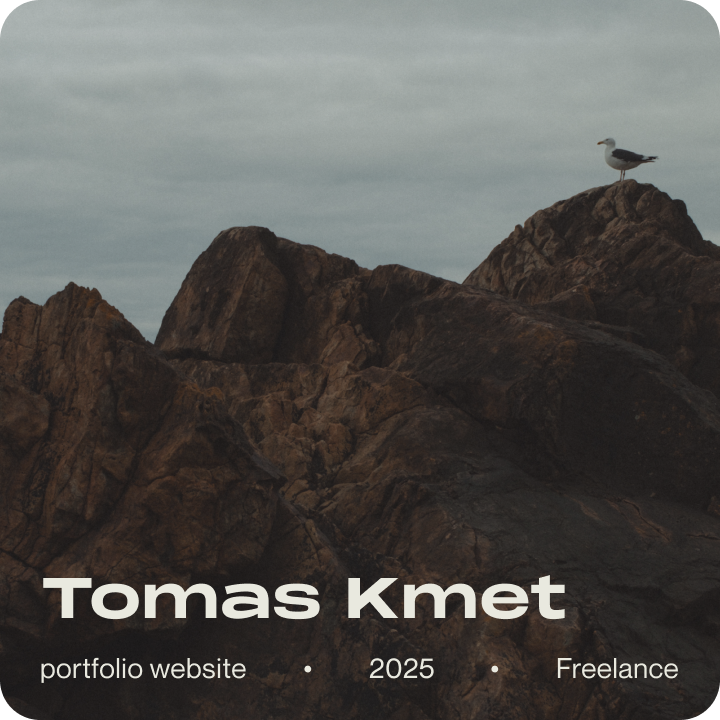
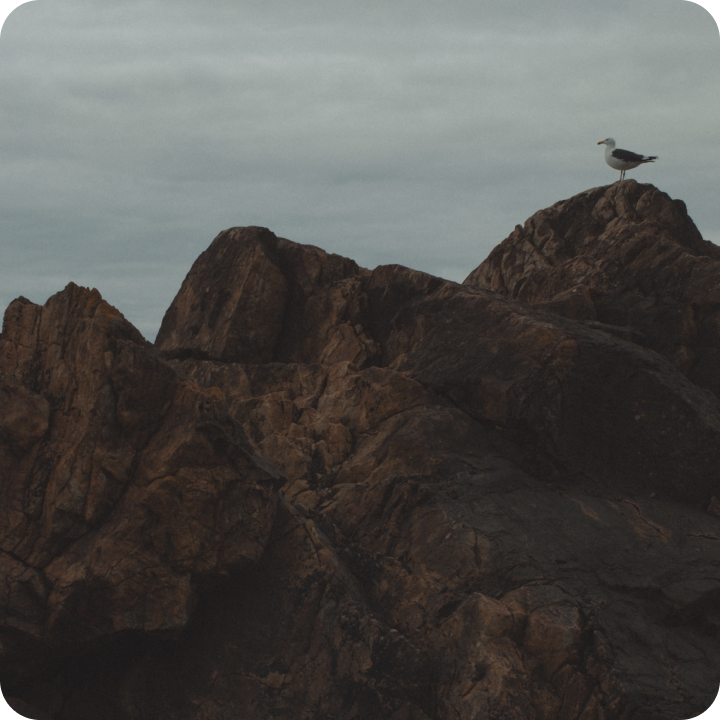
Copy adjust, mobile footer fix

diff --git a/src/jk_portfolio.js b/src/jk_portfolio.js
@@ -283,8 +283,10 @@ const activateNextSection = (_scrollPos) => {
 
 const footerSectionEl = document.getElementById('footerParallax');
 const footerAnimateIn = (_scrollPos) => {
-    let moveFooterCoef = -1 * (footerSection.top - _scrollPos - window.innerHeight) + 2; // +2 to avoid white line on the bottom
-    footerSectionEl.style.height = moveFooterCoef + 'px';
+    if (!getUserAgent.isMobile && window.innerWidth > 768) {
+        let moveFooterCoef = -1 * (footerSection.top - _scrollPos - window.innerHeight) + 2; // +2 to avoid white line on the bottom
+        footerSectionEl.style.height = moveFooterCoef + 'px';
+    }
 };
 
 const footerGoToTopBtnListen = () => {

diff --git a/src/index.html b/src/index.html
@@ -240,8 +240,8 @@
                 <div class="opis text-activate third">
                     <p>
                         I’ve collaborated with agencies, studios, and freelancers on a wide range of projects and
-                        currently split my time between freelance work and a part-time role at GoodKarma Agency in
-                        Amsterdam.
+                        currently split my time between freelance work and a part-time role at GoodKarma Agency
+                        (Amsterdam).
                     </p>
                 </div>
                 <div class="opis text-activate four">

diff --git a/src/scss/_footer.scss b/src/scss/_footer.scss
@@ -72,6 +72,9 @@
   text-align:center;
   display: block;
   overflow: hidden;
+  @include respond-width($w-s){
+    height: 105px;
+  }
   .to-top-link{
     font-family: "Monument";
     text-transform: uppercase;
